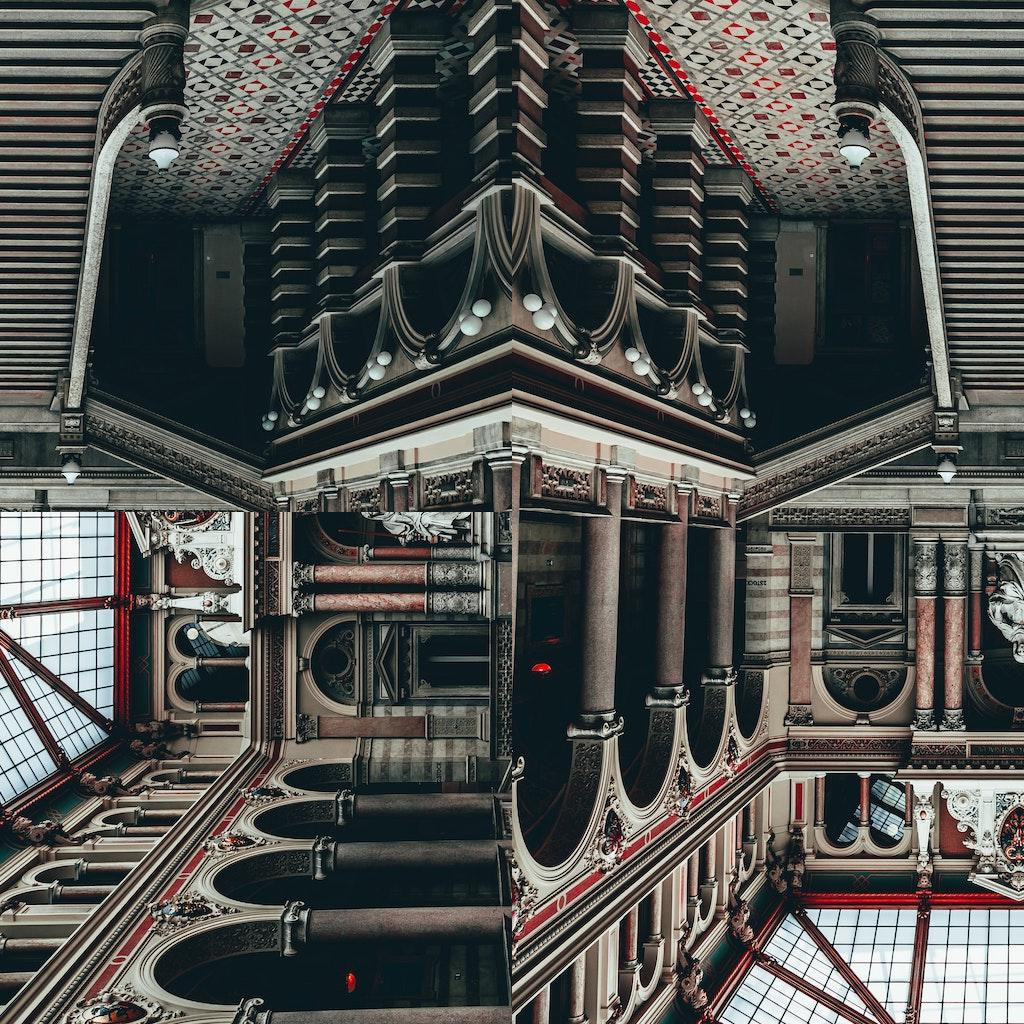
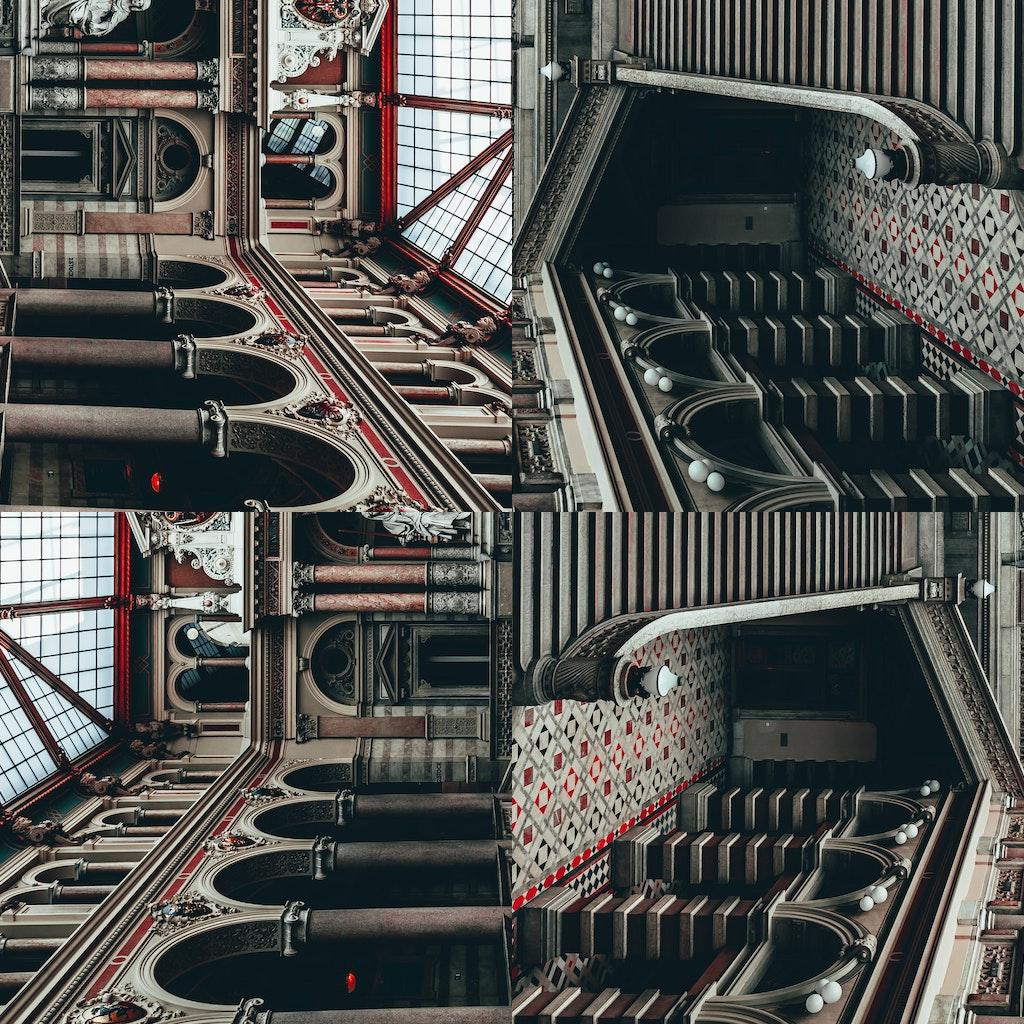
Made changes according to review comments
Resolved all issues as per reviewer comments

diff --git a/app/scrambler.py b/app/scrambler.py
@@ -1,69 +1,72 @@
+"""Scramble has functions for scrambling images in different ways."""
 from random import choice, shuffle
 
 from picture import Picture
 from tile import Tile
 
 
-class Scrambler:
-    """Scramble a picture in different ways."""
+def scramble_rows(picture: Picture) -> None:
+    """Split an Image up into rows an rearranges them."""
+    num_tiles = 8
+    image_size = picture.image.size
+    tile_size = (image_size[0], int(image_size[1] / num_tiles))
 
-    @classmethod
-    def scramble_rows(cls, picture: Picture) -> None:
-        """Split an Image up into rows an rearranges them."""
-        num_tiles = 8
-        image_size = picture.image.size
-        tile_size = (image_size[0], int(image_size[1] / num_tiles))
+    for y in range(num_tiles):
+        co_ordinate = (0, tile_size[1] * y, tile_size[0], tile_size[1] * (y + 1))
+        picture.tiles[y] = Tile(picture.image.crop(co_ordinate), (co_ordinate[0], co_ordinate[1]))
 
-        for y in range(num_tiles):
-            x0, y0, x1, y1 = (0, tile_size[1] * y, tile_size[0], tile_size[1] * (y + 1))
-            picture.tiles[y] = Tile(picture.image.crop((x0, y0, x1, y1)), (x0, y0))
+    picture.tile_order = list(picture.tiles.keys())
+    shuffle(picture.tile_order)
 
-        picture.tile_order = list(picture.tiles.keys())
-        shuffle(picture.tile_order)
 
-    @classmethod
-    def scramble_grid(cls, picture: Picture) -> None:
-        """Split an Image up into tiles an rearranges them and rotates each tile randomly."""
-        num_of_tiles = 4
-        co_ordinates = [
-            (0, 0, 512, 512),
-            (512, 0, 1024, 512),
-            (0, 512, 512, 1024),
-            (512, 512, 1024, 1024),
-        ]
+def scramble_grid(picture: Picture, num_of_tiles: int = 4) -> None:
+    """Split an Image up into tiles an rearranges them and rotates each tile randomly."""
+    co_ordinates = [
+        (0, 0, 512, 512),
+        (512, 0, 1024, 512),
+        (0, 512, 512, 1024),
+        (512, 512, 1024, 1024),
+    ]
 
-        # Tile swap logic
-        tile_order = [0, 1, 2, 3]
-        swap_list = ["top", "left", "bottom", "right"]
-        tile_rotations = [choice([90, 180, 270]) for _ in range(num_of_tiles)]
-        swap_order = []
+    # Tile swap logic
+    tile_order = [0, 1, 2, 3]
+    swap_list = ["top", "left", "bottom", "right"]
+    tile_rotations = [choice([90, 180, 270]) for _ in range(num_of_tiles)]
+    _swap_order = []
 
-        shuffle(swap_list)
-        for current_choice in swap_list:
-            swap_order.append(current_choice)
-            if current_choice == "top":
-                tile_order[0], tile_order[1] = tile_order[1], tile_order[0]
+    shuffle(swap_list)
 
-            if current_choice == "left":
-                tile_order[0], tile_order[2] = tile_order[2], tile_order[0]
+    # Swap order can be used to keep track of swaps
+    _swap_order = swap_list
 
-            if current_choice == "bottom":
-                tile_order[2], tile_order[3] = tile_order[3], tile_order[2]
+    for current_choice in swap_list:
+        if current_choice == "top":
+            tile_order[0], tile_order[1] = tile_order[1], tile_order[0]
 
-            if current_choice == "right":
-                tile_order[1], tile_order[3] = tile_order[3], tile_order[1]
+        if current_choice == "left":
+            tile_order[0], tile_order[2] = tile_order[2], tile_order[0]
 
-        # Order of tiles to be formed
-        picture.tile_order = tile_order
+        if current_choice == "bottom":
+            tile_order[2], tile_order[3] = tile_order[3], tile_order[2]
 
-        # Adding tiles for picture
-        for tile in range(num_of_tiles):
-            picture.tiles[tile] = Tile(
-                picture.image.crop(co_ordinates[tile]),
-                (co_ordinates[tile][0], co_ordinates[tile][1]),
-                tile_rotations[tile],
-            )
+        if current_choice == "right":
+            tile_order[1], tile_order[3] = tile_order[3], tile_order[1]
 
-    def scramble_circle(self, picture: Picture) -> Picture:
-        """Split an Image up into rows an rearranges them."""
-        raise NotImplementedError
+    # Order of tiles to be formed
+    picture.tile_order = tile_order
+
+    # Adding tiles for picture
+    for tile in range(num_of_tiles):
+        tile_img = picture.image.crop(co_ordinates[tile])
+        tile_img = tile_img.rotate(tile_rotations[tile])
+        picture.tiles[tile] = Tile(
+            tile_img,
+            (co_ordinates[tile][0], co_ordinates[tile][1]),
+        )
+
+
+def scramble_circle(picture: Picture) -> Picture:
+    """Split an Image up into rows an rearranges them."""
+    # Added line for linter escape
+    _ = picture
+    raise NotImplementedError

diff --git a/app/picture.py b/app/picture.py
@@ -1,3 +1,4 @@
+"""Picture class contains template for picture based on Image from Pillow."""
 from __future__ import annotations
 
 from typing import TYPE_CHECKING
@@ -9,7 +10,13 @@ if TYPE_CHECKING:
 
 
 class Picture:
-    """Picture class."""
+    """Picture class has methods for saving PIL image formed from tiles
+    :param img_path: Used to provide image path to open image.
+
+    Contains:
+    save(): Saves the image formed from tiles to a given path
+    is_image_fixed(): Not Implemented
+    """
 
     def __init__(self, img_path: str) -> None:
         self.image: Image.Image = Image.open(img_path)
@@ -18,20 +25,12 @@ class Picture:
         self.tile_order: list[int] = []
         self.scramble_type = None
 
-    def save(self, img_path: str, scramble_type: str) -> None:
+    def save(self, img_path: str) -> None:
         """Save current tile arrangement as file."""
         new_image = Image.new(mode=self.image.mode, size=self.image.size)
 
-        if scramble_type == "rows":
-            for original_pos, new_pos in enumerate(self.tile_order):
-                new_image.paste(self.tiles[new_pos].image, self.tiles[original_pos].position)
-
-        if scramble_type == "tiles":
-            for original_pos, new_pos in enumerate(self.tile_order):
-                self.tiles[new_pos].image = self.tiles[new_pos].image.rotate(
-                    self.tiles[new_pos].rotation,
-                )
-                new_image.paste(self.tiles[new_pos].image, self.tiles[original_pos].position)
+        for original_pos, new_pos in enumerate(self.tile_order):
+            new_image.paste(self.tiles[new_pos].image, self.tiles[original_pos].position)
 
         new_image.save(img_path)
 

diff --git a/app/main.py b/app/main.py
@@ -1,13 +1,13 @@
 from pathlib import Path
 
 from picture import Picture
-from scrambler import Scrambler
+from scrambler import scramble_grid, scramble_rows
 
 if __name__ == "__main__":
     pic = Picture(str(Path.cwd() / "resources" / "pydis_logo.png"))
-    Scrambler.scramble_rows(pic)
-    pic.save(str(Path.cwd() / "resources" / "pydis_logo_scrambled.png"), "rows")
+    scramble_rows(pic)
+    pic.save(str(Path.cwd() / "resources" / "pydis_logo_scrambled.png"))
 
     tile_pic = Picture(str(Path.cwd() / "resources" / "stairs_josh_hild.jpg"))
-    Scrambler.scramble_grid(tile_pic)
-    tile_pic.save(str(Path.cwd() / "resources" / "stairs_josh_hild_scrambled.jpg"), "tiles")
+    scramble_grid(tile_pic)
+    tile_pic.save(str(Path.cwd() / "resources" / "stairs_josh_hild_scrambled.jpg"))

diff --git a/app/tile.py b/app/tile.py
@@ -1,3 +1,4 @@
+"""Tile class used for creating smaller parts of Picture."""
 from __future__ import annotations
 
 from dataclasses import dataclass
